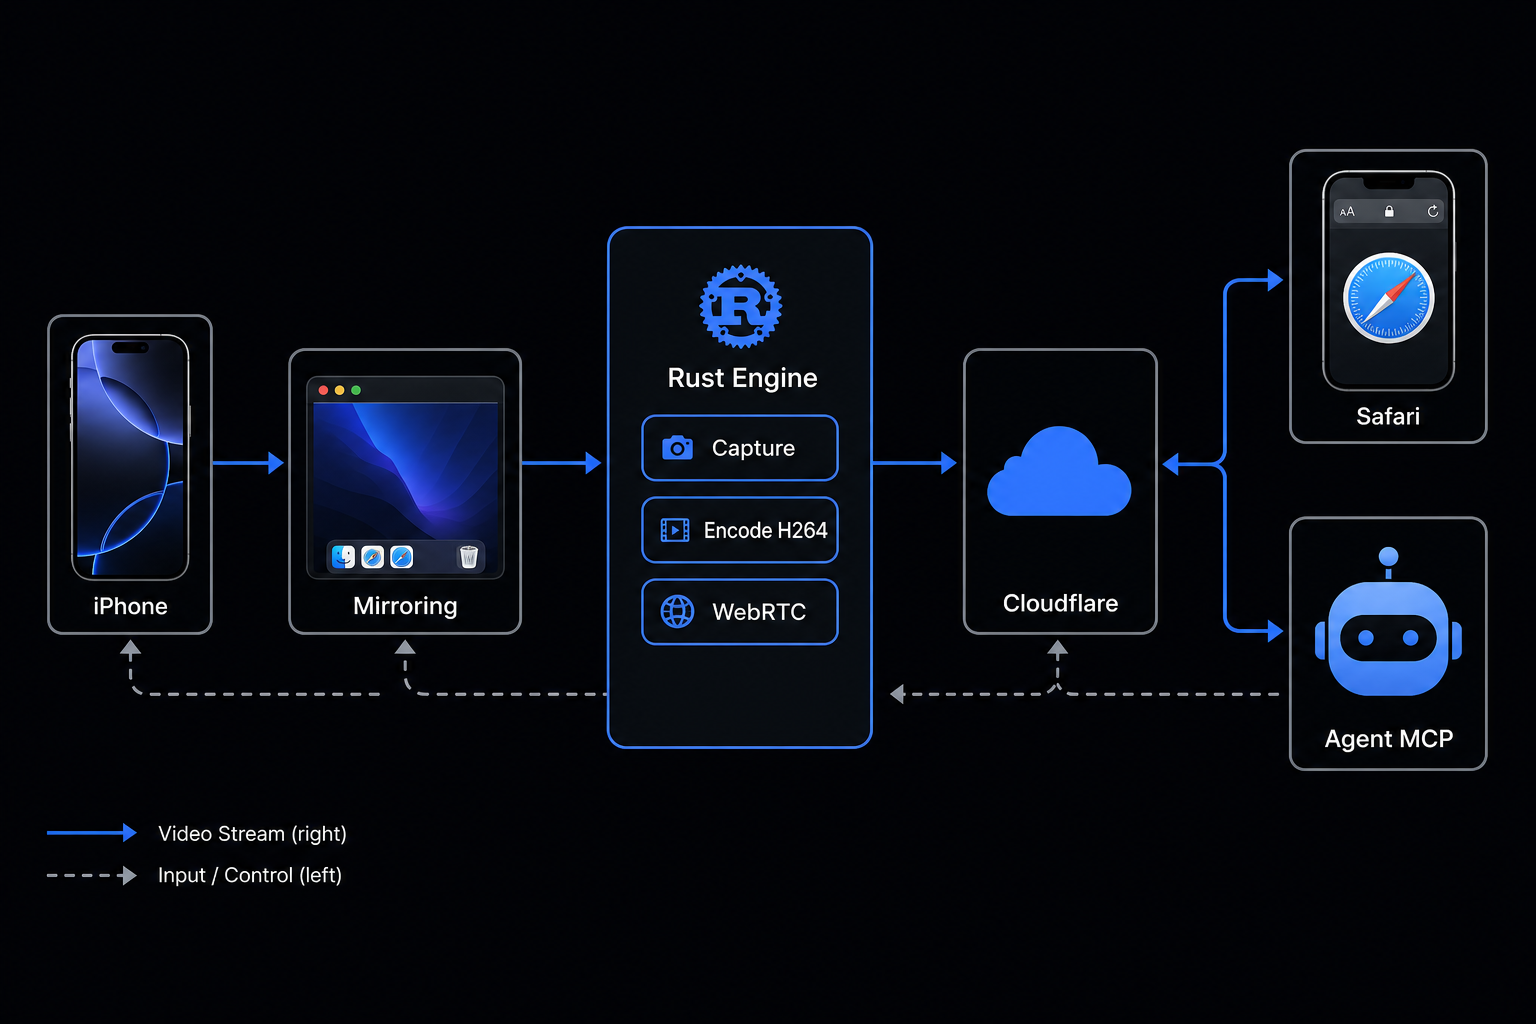
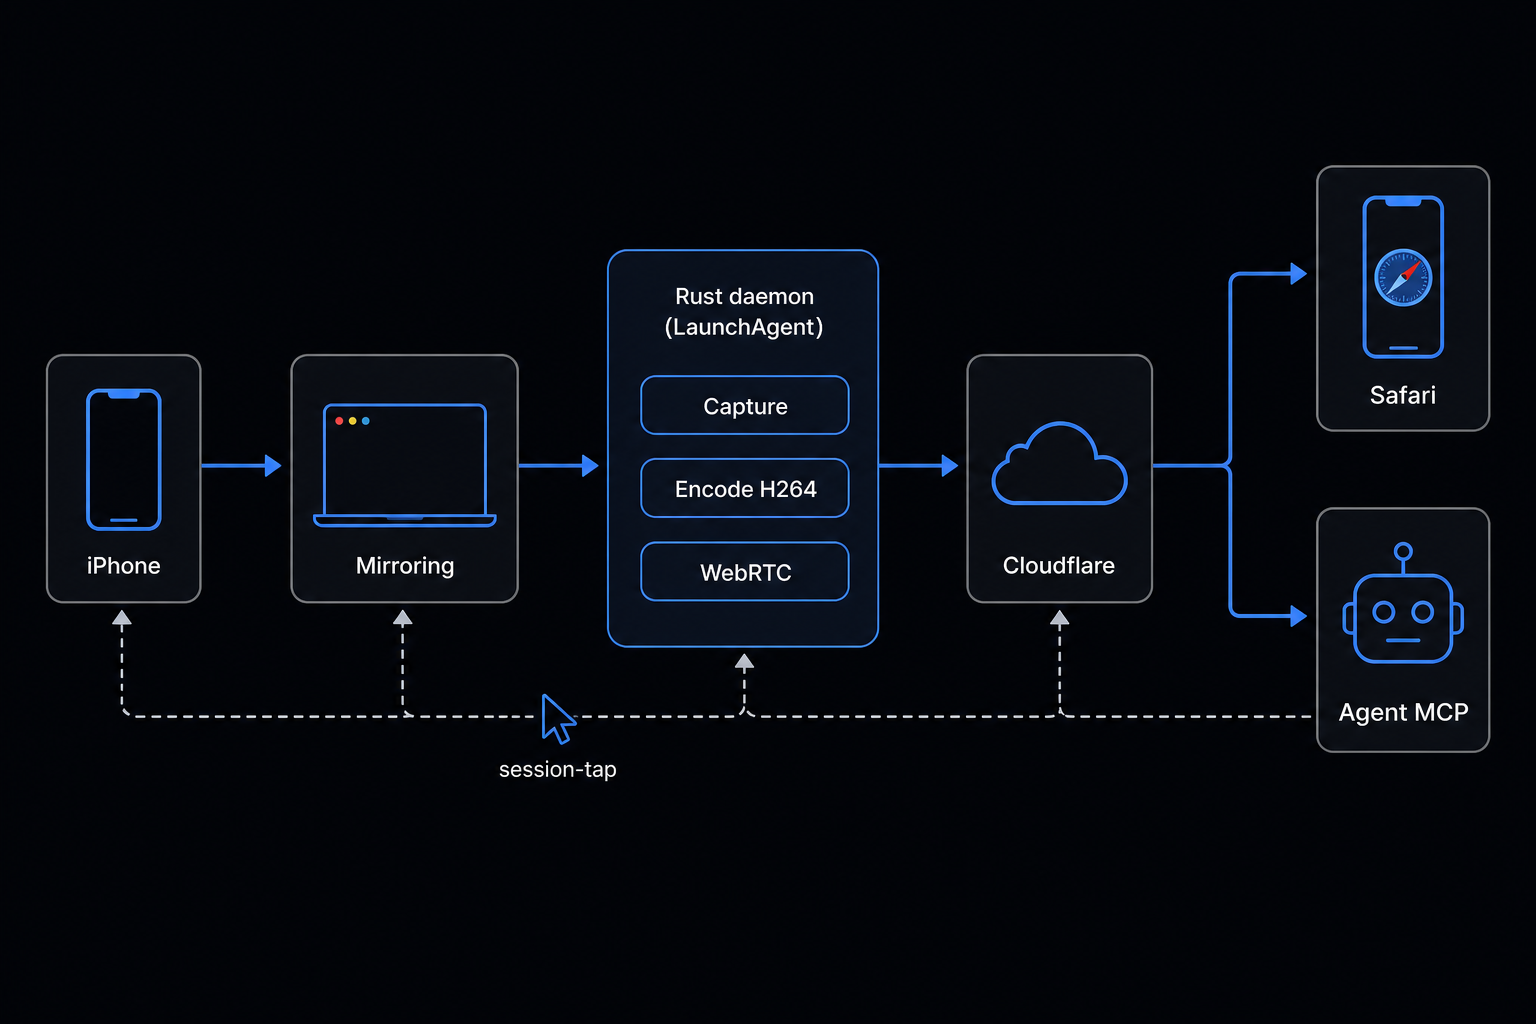
docs: refresh hero + add deployment & control-lease diagrams (post Phase-0)

diff --git a/README.md b/README.md
@@ -2,20 +2,41 @@
 
 A small authenticated web remote for macOS iPhone Mirroring.
 
-## Architecture (v2 — WebRTC rebuild, in design)
+## Architecture (v2 — WebRTC rebuild)
 
 ![Architecture](assets/architecture.png)
 
-A single Rust binary captures the macOS iPhone Mirroring window with
-ScreenCaptureKit, hardware-encodes it to H.264 with VideoToolbox, and streams it
-over WebRTC. The same capture/input core serves two front-ends: a human client
-(iPhone Safari — live video + continuous touch) and an agent client (Hermes and
-other agents via MCP). Touch is injected as continuous `CGEvent`s for native-feel
-drag/swipe; a mutex grants control to one side at a time (a human tap pre-empts an
-agent). Cloudflare carries signaling (over the tunnel) and TURN for NAT traversal.
+A Rust daemon captures the macOS iPhone Mirroring window with ScreenCaptureKit,
+hardware-encodes it to H.264 with VideoToolbox, and streams it over WebRTC. The same
+capture/input core serves two front-ends: a human client (iPhone Safari — live video +
+continuous touch) and an agent client (Hermes and other agents via MCP). Touch is
+injected back as continuous `CGEvent`s via the system session/HID event tap (the dashed
+`session-tap` path). Cloudflare carries signaling (over the tunnel) and TURN for NAT
+traversal.
 
-> The sections below document the current (v1) screenshot-polling implementation,
-> which still ships until v2 lands.
+### Deployment — a GUI-session LaunchAgent
+
+![Deployment](assets/deployment.png)
+
+ScreenCaptureKit (Screen Recording) and input injection (Accessibility) require TCC
+grants tied to a signed identity **in the login session** — an SSH-spawned binary is
+denied. So the daemon runs as a codesigned **LaunchAgent** in the desktop session,
+granted once; SSH shells, Hermes, and the iPhone Safari controller all **connect to it**.
+
+### Control lease — one cursor, one controller
+
+![Control and input](assets/control-input.png)
+
+Session/HID-tap input drives the host Mac's **one real cursor** with the Mirroring window
+frontmost. A mandatory **control lease** grants that single cursor to one controller at a
+time; a human touch **pre-empts** an in-flight agent gesture (the agent can still observe).
+Without the lease, human and agent would corrupt each other's gestures fighting over the
+same cursor.
+
+> Phase 0 (capture + input) is validated on real hardware; see
+> `docs/superpowers/specs/2026-06-09-iphone-remote-webrtc-design.md` and `SPIKE-RESULTS.md`.
+> The sections below document the current (v1) screenshot-polling implementation, which
+> still ships until v2 lands.
 
 It serves a local page at `http://127.0.0.1:8787/phone` with:
 
